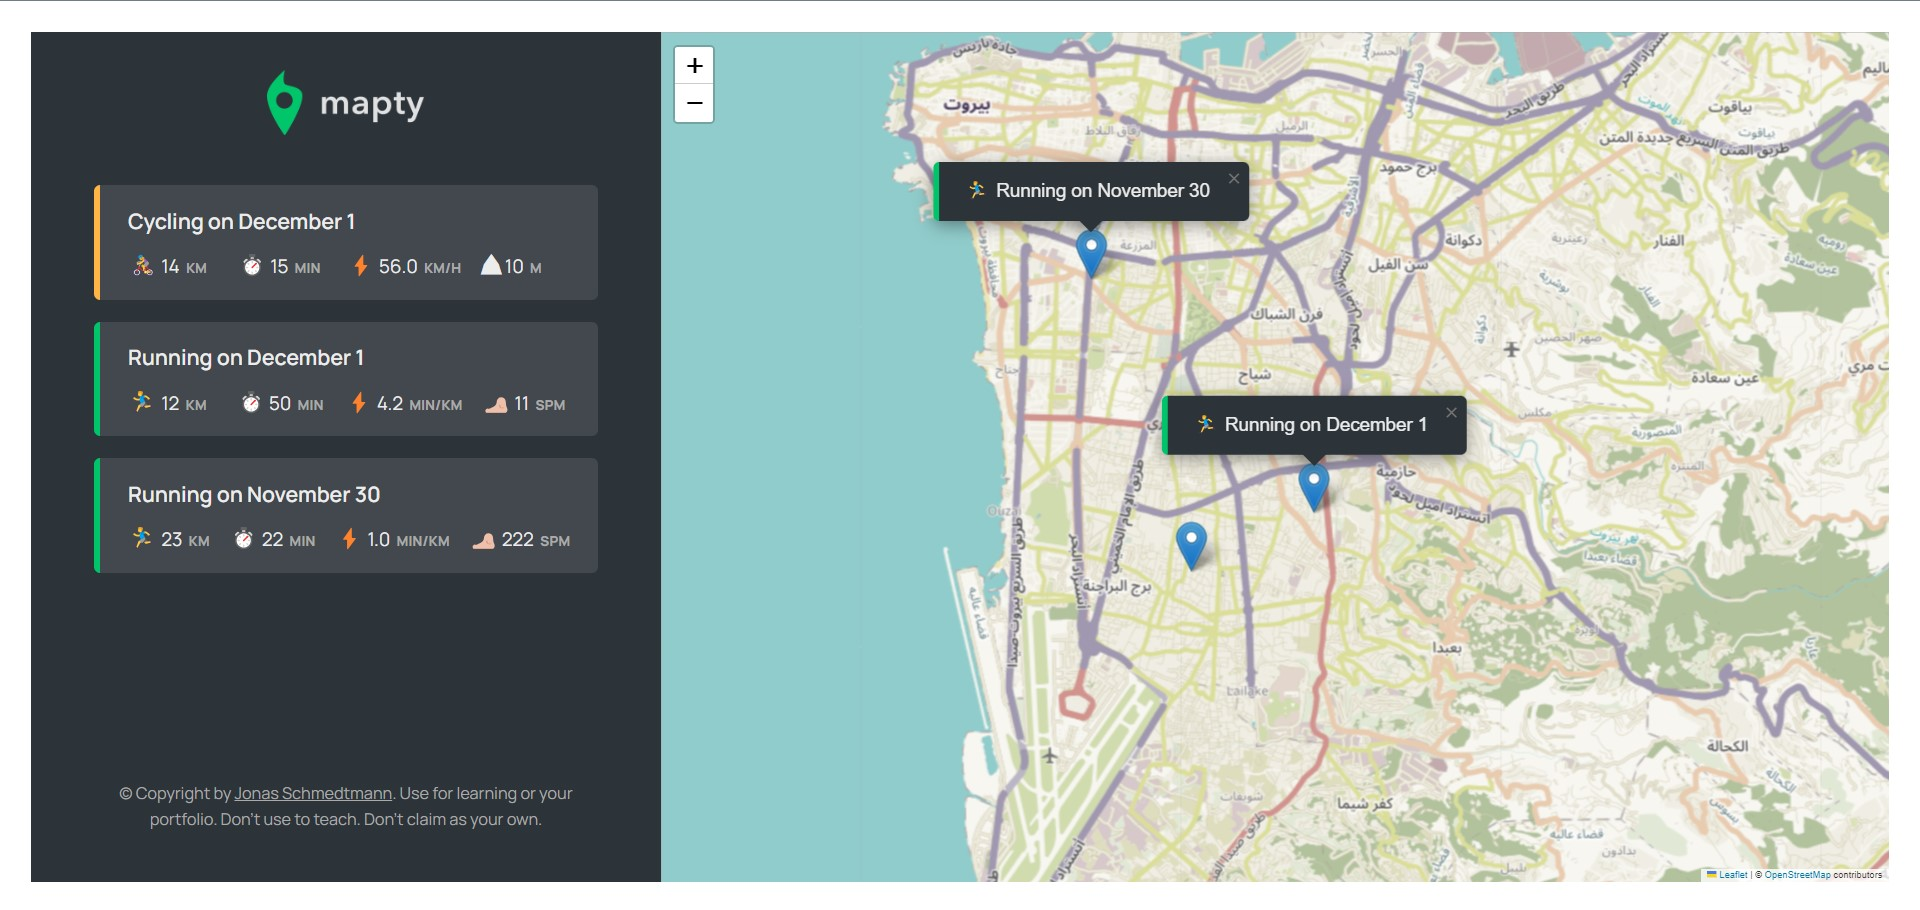
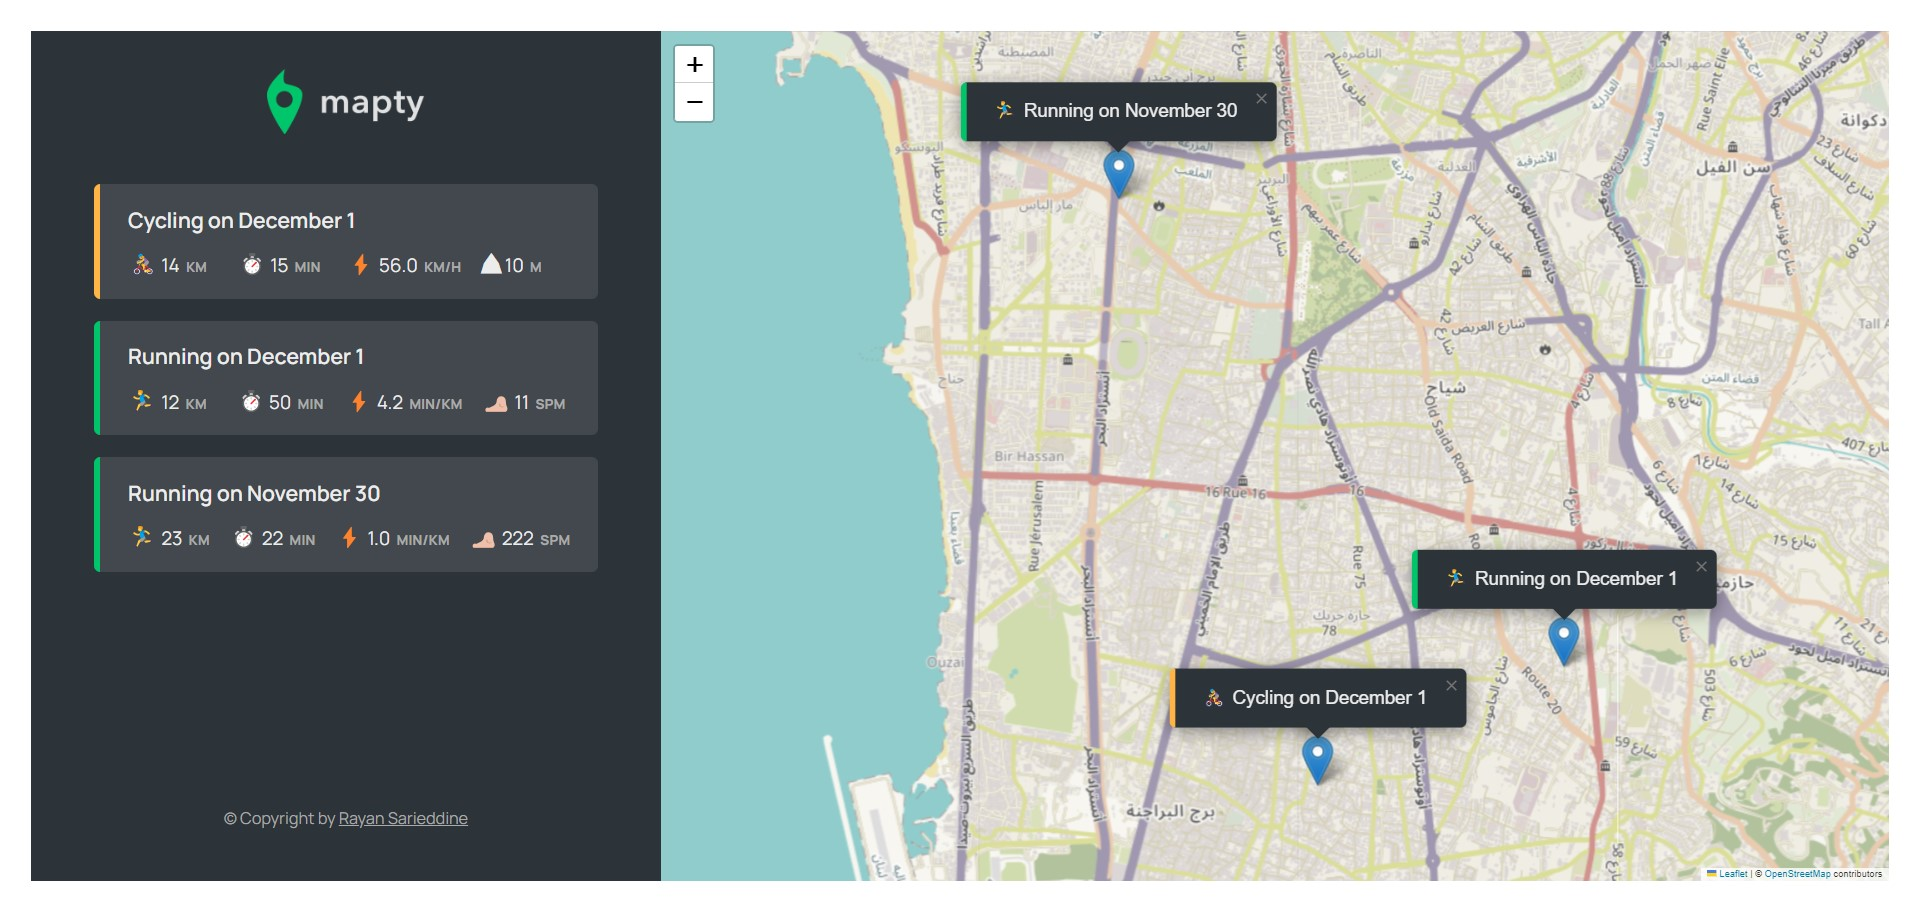
updated readme

diff --git a/index.html b/index.html
@@ -123,9 +123,8 @@
           class="twitter-link"
           target="_blank"
           href="https://twitter.com/jonasschmedtman"
-          >Jonas Schmedtmann</a
-        >. Use for learning or your portfolio. Don't use to teach. Don't claim
-        as your own.
+          >Rayan Sarieddine</a
+        
       </p>
     </div>
 
